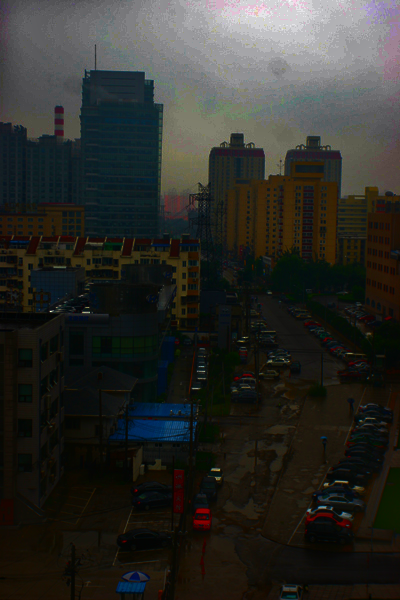
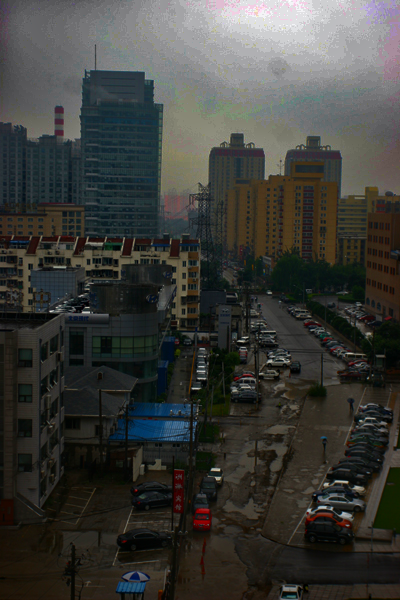
opt

diff --git a/dehaze.py b/dehaze.py
@@ -79,7 +79,7 @@ def edge_detection(im):
     return img
 
 
-def TransmissionRefine(im, et, et3, edge_threshold=0.1):
+def TransmissionRefine(im, et, edge_threshold=0.1):
     gray = cv2.cvtColor(im, cv2.COLOR_BGR2GRAY)
     edges = edge_detection(gray)
     edges = edges / 255.0  # Normalize edges to [0, 1]
@@ -88,7 +88,7 @@ def TransmissionRefine(im, et, et3, edge_threshold=0.1):
     # cv2.destroyAllWindows()
 
     # Initialize transmission refinement
-    t_refined = np.zeros_like(et)
+    t_refined = et.copy()
     rows, cols = et.shape
 
     # low-pass filter kernel
@@ -177,11 +177,10 @@ if __name__ == '__main__':
     dark15 = DarkChannel(I, 15)
     dark3 = DarkChannel(I, 3)
     dark1 = DarkChannel(I, 1)
-    dark = DarkChannel(I, 1)
+    dark = DarkChannel(I, 3)
     A = AtmLight(I, dark)
-    te = TransmissionEstimate(I, A, 1)
-    te3 = TransmissionEstimate(I, A, 3)
-    t = TransmissionRefine(src, te, te3)
+    te = TransmissionEstimate(I, A, 3)
+    t = TransmissionRefine(src, te)
     t_old = TransmissionRefine_old(src, te)
     J = Recover(I, t, A, 0.01)
     J_old = Recover(I, t_old, A, 0.01)
